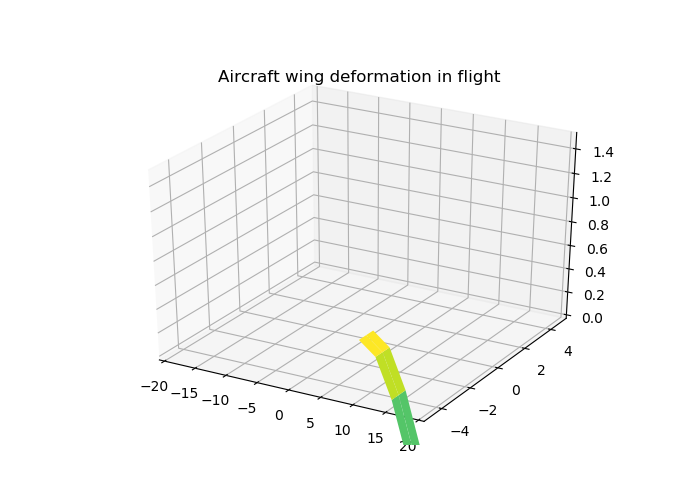
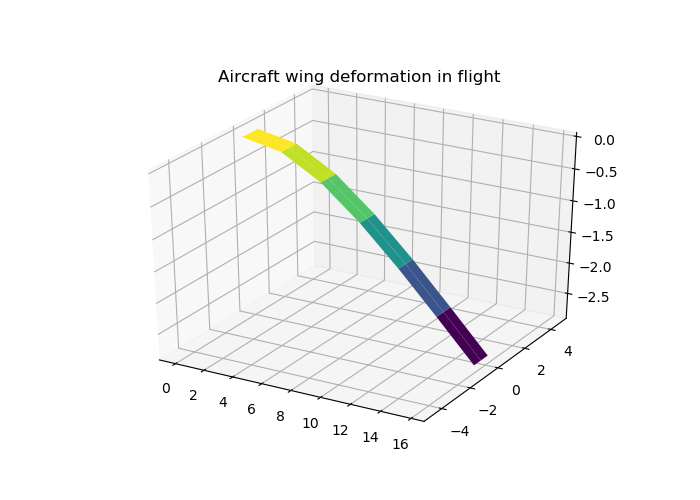
Code working, properly plotting and calculating the flutter speed. Eig val for flutter not yet correct

diff --git a/HAR Wing Aeroelastical Tool/Airplane.py b/HAR Wing Aeroelastical Tool/Airplane.py
@@ -22,7 +22,7 @@ def veclin(i, numstates):
     return vec
 
 
-def equilibracorpo(vec, strain, strainp, strainpp, lambd, beta, betap, kinetic, ap, V):
+def equilibracorpo(vec, strain, strainp, strainpp, lambd, beta, betap, kinetic, ap, V, freeDEG):
     theta = vec[0]
     deltaflap = vec[1]
     tracao = vec[2]
@@ -33,23 +33,23 @@ def equilibracorpo(vec, strain, strainp, strainpp, lambd, beta, betap, kinetic, 
 
     FLAG = 0
     Xp, bp, lambdap, kp = dinamicaflex(0, strain, strainp, strainpp, lambd, beta, betap, kinetic, ap, Vento, tracao,
-                                       np.array([deltaflap, 0, 0]), FLAG)
+                                       np.array([deltaflap, 0, 0]), FLAG, freeDEG)
     zero = 10000 * np.array([bp[1], bp[2], bp[3]])
     zero = zero[:, 0]
 
     return zero
 
 
-def equilibraestrutura(strain, strainp, strainpp, lambd, beta, betap, kinetic, ap, V, tracao, deltaflap):
+def equilibraestrutura(strain, strainp, strainpp, lambd, beta, betap, kinetic, ap, V, tracao, deltaflap, freeDEG):
     FLAG = 0
     Xp, bp, lambdap, kp = dinamicaflex(0, strain, strainp, strainpp,
-                                       lambd, beta, betap, kinetic, ap, V, tracao, deltaflap, FLAG)
+                                       lambd, beta, betap, kinetic, ap, V, tracao, deltaflap, FLAG,freeDEG)
     zero = Xp[:, 0]
 
     return zero
 
 
-def equilibratudo(vec, strain, strainp, strainpp, lambd, beta, betap, kinetic, ap, V, tracao, deltaflap):
+def equilibratudo(vec, strain, strainp, strainpp, lambd, beta, betap, kinetic, ap, V, tracao, deltaflap, freeDEG):
     strain = vec[0:strainp.shape[1]]
     theta = vec[strainp.shape[1] + 1]
     deltaflap = vec[strainp.shape[1] + 2]
@@ -61,7 +61,7 @@ def equilibratudo(vec, strain, strainp, strainpp, lambd, beta, betap, kinetic, a
 
     FLAG = 0
     Xp, bp, lambdap = dinamicaflex(0, strain, strainp, strainpp,
-                                   lambd, beta, betap, kinetic, ap, V, tracao, deltaflap, FLAG)
+                                   lambd, beta, betap, kinetic, ap, V, tracao, deltaflap, FLAG, freeDEG)
     zero = np.array([[Xp], [bp[2]], [bp[3]], [bp[4]]])
 
     return zero
@@ -74,6 +74,7 @@ def dinamicaflexODEimplicit(t, x, xp):
     deltaflap = airplaneParams[3]
     T = airplaneParams[4]
     elev = airplaneParams[5]
+    freeDEG = airplaneParams[6]
 
     deltaflap = deltaflap + interp1d(T, elev)(t)
 
@@ -97,7 +98,7 @@ def dinamicaflexODEimplicit(t, x, xp):
     strainppn, bpn, lambdapn, kineticpn = dinamicaflex(t, strain.transpose(), strainp.transpose(),
                                                        strainpp.transpose(), lambd, beta, betap,
                                                        kinetic.transpose(), ap, V, manete, np.array([deltaflap, 0, 0]),
-                                                       FLAG)
+                                                       FLAG, freeDEG)
 
     if ap.NUMaedstates == 0:
         f = np.block([[(-strainpn + strainp)], [(strainppn - strainpp)], [(bpn - betap)], [(kineticpn - kineticp)]])
@@ -279,8 +280,7 @@ class Airplane:
     def airplanemovie(self):  # ah mas vai pass ar ainda por muito tempo
         pass
 
-    def linearize(self, straineq, betaeq, keq, manete, deltaflap, Vwind, T=np.array([0, 1]), elev=np.array([0, 0])):
-        print('linearize')
+    def linearize(self, straineq, betaeq, keq, manete, deltaflap, Vwind, freeDEG, T=np.array([0, 1]), elev=np.array([0, 0])):
         global airplaneParams
         if self.NUMaedstates == 0:
             lambda0 = np.array([])
@@ -290,7 +290,7 @@ class Airplane:
         Airplane.update(self, straineq, straineq * 0, straineq * 0, lambda0)
         Airplane.updateStrJac(self)
 
-        airplaneParams = [self, Vwind, manete, deltaflap, T, elev]
+        airplaneParams = [self, Vwind, manete, deltaflap, T, elev, freeDEG]
 
         if straineq.shape[0] != 1:
             straineq = straineq.reshape(1, straineq.shape[0])
@@ -308,12 +308,12 @@ class Airplane:
             soma = dinamicaflexODEimplicit(0, x + veclin(i, x.shape[0]).transpose() * delta, xp)
             subtr = dinamicaflexODEimplicit(0, x - veclin(i, x.shape[0]).transpose() * delta, xp)
 
-            if (i >= (straineq.shape[1] + 1)) and (i <= (straineq.shape[1] * 2)) or (
-                    (i >= int(self.NUMaedstates) + straineq.shape[1] * 2 + 1) and (
-                    i <= int(self.NUMaedstates) + straineq.shape[1] * 2 + 6)):  # TODO talvez precise alterar esse i
+            if (i >= (straineq.shape[1])) and (i <= (straineq.shape[1] * 2 - 1)) or (
+                    (i >= int(self.NUMaedstates) + straineq.shape[1] * 2) and (
+                    i <= int(self.NUMaedstates) + straineq.shape[1] * 2 + 5)):  # TODO talvez precise alterar esse i
                 somap = dinamicaflexODEimplicit(0, x, xp + veclin(i, x.shape[0]).transpose() * delta)
                 subtrp = dinamicaflexODEimplicit(0, x, xp - veclin(i, x.shape[0]).transpose() * delta)
-                Mlin[:, i] = -((somap - subtrp) / (2 * delta))[:, 0]
+                Mlin[:, i] = (-(somap - subtrp) / (2 * delta))[:, 0]
 
             Alin[:, i] = ((soma - subtr) / (2 * delta))[:, 0]
 
@@ -330,8 +330,7 @@ class Airplane:
 
         return A, Aaero, Abody
 
-    def trimairplane(self, V, H, Vwind, tracao=0, deltaflap=0, isPinned = 'False'):
-        print('trimairplane')
+    def trimairplane(self, V, H, Vwind, tracao=0, deltaflap=0, freeDEG=np.array([[1, 1, 1, 1, 1, 1]]), isPinned='False'):
         strain = np.zeros((self.NUMele * 4, 1)).transpose()
         strainp = np.zeros((self.NUMele * 4, 1)).transpose()
         strainpp = np.zeros((self.NUMele * 4, 1)).transpose()
@@ -347,9 +346,8 @@ class Airplane:
         kinetic = np.array([theta, phi, psi, H])
 
         if isPinned == 'False':
-            print('entering fsolve equilibra corpo')
             vec = fsolve(equilibracorpo, np.array([[0, 0, 0]]),
-                         args=(strain, strainp, strainpp, lambd, beta, betap, kinetic, self, V),
+                         args=(strain, strainp, strainpp, lambd, beta, betap, kinetic, self, V, freeDEG),
                          xtol=1e-10, maxfev=20000)
             theta = vec[0]
             kinetic[0] = theta
@@ -357,10 +355,9 @@ class Airplane:
             tracao = vec[2]
             beta[2] = -V * math.sin(theta)
             beta[1] = V * math.cos(theta)
-            print('entering fsolve equilibra est')
             strainEQ = fsolve(equilibraestrutura, strain,
                               args=(strainp, strainpp, lambd, beta, betap, kinetic, self, Vwind, tracao,
-                                    np.array([deltaflap, 0, 0])),
+                                    np.array([deltaflap, 0, 0]), freeDEG),
                               xtol=1e-10, maxfev=20000)
         else:
             theta = 0
@@ -370,7 +367,7 @@ class Airplane:
             beta[1] = 0 * math.cos(theta)
             strainEQ = fsolve(equilibraestrutura, strain,
                               args=(strainp, strainpp, lambd, beta, betap, kinetic, self, Vwind, tracao,
-                                    np.array([deltaflap, 0, 0])),
+                                    np.array([deltaflap, 0, 0]), freeDEG),
                               xtol=1e-10, maxfev=20000)
 
         Airplane.plotAirplane3D(self)
@@ -380,8 +377,7 @@ class Airplane:
     def trimairplanefull(self):  # TODO necessario? prefiro usar so esse ou o full
         pass
 
-    def simulate(self, tspan, strain0, beta0, kinetic0, Vwind, manete, deltaflap, T, elev):
-        print('simulate')
+    def simulate(self, tspan, strain0, beta0, kinetic0, Vwind, manete, deltaflap, T, elev, freeDEG):
         global airplaneParams
         strain0 = strain0.reshape(strain0.shape[0], 1)
         x0 = np.block(
@@ -394,7 +390,7 @@ class Airplane:
         # t,X = ode15i( @ (t, x, xp) dinamicaflexODEimplicit(t, x, xp, ap, Vwind, manete(t), deltaflap(t)), tspan, x0, xp0, options);
 
         t0 = tspan[0]  # Initial time
-        airplaneParams = [self, Vwind, manete, deltaflap, T, elev]
+        airplaneParams = [self, Vwind, manete, deltaflap, T, elev, freeDEG]
 
         model = Implicit_Problem(dinamicaflexODEimplicit, t0=t0, y0=x0, yd0=xp0,
                                  name='Flight simulation')  # Create an Assimulo problem

diff --git a/HAR Wing Aeroelastical Tool/AeroParamsUnsteady.py b/HAR Wing Aeroelastical Tool/AeroParamsUnsteady.py
@@ -34,6 +34,10 @@ class AeroParamsUnsteady:
         self.E3 = np.linalg.inv(self.A) @ self.B1[:, 1]
         self.E4 = np.linalg.inv(self.A) @ self.B2[:, 1]
 
+        self.E2 = self.E2.reshape(self.E2.shape[0], 1)
+        self.E3 = self.E3.reshape(self.E3.shape[0], 1)
+        self.E4 = self.E4.reshape(self.E4.shape[0], 1)
+
     # ------------- # ------------- METHODS ------------- # ------------- #
     # TODO criar setmembermatrix em members, esta em Peter.m necessario?
     def calcMatrix(self):  # eq 2.63
@@ -60,18 +64,18 @@ class AeroParamsUnsteady:
         c2 = np.zeros((self.N, 1))
 
         for i1 in range(0, self.N):
-            c2[i1] = 2. / (i1+1)
+            c2[i1, 0] = 2. / (i1 + 1)
 
         s2 = np.zeros((self.m, 1))
-        s3 = s2
+        s3 = s2.copy()
 
         for i1 in range(0, self.m):
-            if i1 == 0:  # TODO isso faz sentido?
-                s2[i1] = 1
+            if i1 == 0:
+                s2[i1, 0] = 1
             elif i1 == 1:
-                s2[i1] = 1. / 2
+                s2[i1, 0] = 1 / 2
 
-            s3[i1] = i1
+            s3[i1, 0] = i1
 
         self.B1 = c2 @ s2.transpose() @ self.T
         self.B2 = c2 @ s3.transpose() @ self.T
@@ -86,23 +90,22 @@ class AeroParamsUnsteady:
         for i1 in range(0, self.N):
             for i2 in range(0, self.N):
                 if i1 == i2 + 1:
-                    D[i1, i2] = 1 / (2 * (i1+1))
+                    D[i1, i2] = 1 / (2 * (i1 + 1))
                 elif i1 == i2 - 1:
-                    D[i1, i2] = -1 / (2 * (i1+1))
+                    D[i1, i2] = -1 / (2 * (i1 + 1))
 
-            if i1 != self.N-1:
-                b[i1] = ((-1) ** i1) * (math.factorial(self.N + i1) / math.factorial(self.N - 2 - i1)) * (
-                        1 / math.factorial(i1+1) ** 2)
+            if i1 != self.N - 1:
+                b[i1, 0] = ((-1) ** i1) * (math.factorial(self.N + i1) / math.factorial(self.N - 2 - i1)) * (
+                        1 / math.factorial(i1 + 1) ** 2)
 
-            if i1 == self.N-1:  # TODO else?
-                b[i1] = (-1) ** (self.N + 1)
+            if i1 == self.N - 1:  # TODO else?
+                b[i1, 0] = (-1) ** (self.N + 1)
 
-            c[i1] = 2 / (i1 + 1)
+            c[i1, 0] = 2 / (i1 + 1)
 
             if i1 == 0:  # TODO faz sentido? necessario?
-                d[i1] = 1. / 2
+                d[i1, 0] = 1. / 2
 
         self.B = b
         self.Bm = 1 / 2 * self.C @ np.block([[1], [np.zeros((self.m - 1, 1))]]) @ b.transpose()  # TODO esta certo?
         self.A = D + d @ b.transpose() + c @ d.transpose() + (1 / 2) * c @ b.transpose()
-

diff --git a/HAR Wing Aeroelastical Tool/aeroforceandmoment.py b/HAR Wing Aeroelastical Tool/aeroforceandmoment.py
@@ -23,6 +23,10 @@ def aeroforceandmoment(strain, strainp, strainpp, lambd, beta, betap, membro, Vw
         # Node 1
         N = membro.elementsVector[i].node1.aeroParams.N
         lambd4 = lambd[0, (i * N * 3):(N + i * N * 3)]
+
+        if lambd4.shape[0] != 1:
+            lambd4 = lambd4.reshape(1, lambd4.shape[0])
+
         lambda0 = 0.5 * lambd4 @ membro.elementsVector[i].node1.aeroParams.B
         b = membro.elementsVector[i].node1.aeroParams.b
         d = membro.elementsVector[i].node1.aeroParams.a * b
@@ -80,9 +84,14 @@ def aeroforceandmoment(strain, strainp, strainpp, lambd, beta, betap, membro, Vw
 
 
 def getforceandmoment(h, dotp, dottheta, ddotp, ddottheta, lambda0, Vwind, b, rho, d, aero, lambd, deltaflap):
-    e1 = np.array([1, 0, 0]).transpose()
-    e2 = np.array([0, 1, 0]).transpose()
-    e3 = np.array([0, 0, 1]).transpose()
+    e1 = np.array([[1, 0, 0]]).transpose()
+    e2 = np.array([[0, 1, 0]]).transpose()
+    e3 = np.array([[0, 0, 1]]).transpose()
+
+    dotp = dotp.reshape(dotp.shape[0], 1)
+    dottheta = dottheta.reshape(dottheta.shape[0], 1)
+    ddotp = ddotp.reshape(ddotp.shape[0], 1)
+    ddottheta = ddottheta.reshape(ddottheta.shape[0], 1)
 
     if aero.ndelta > 0:
         delta = deltaflap[aero.ndelta - 1]  # TODO verificar o -1
@@ -122,9 +131,12 @@ def getforceandmoment(h, dotp, dottheta, ddotp, ddottheta, lambda0, Vwind, b, rh
 
     Forca = CBA @ np.array([[0], [D], [L]])
     Mx = M + (d + 0.5 * b) * (L * cos(alphat + alpha0) - D * sin(alphat + alpha0))
-    Momento = CBA @ np.array([[Mx], [0], [0]])
+    Momento = CBA @ np.array([Mx, [0], [0]])
 
     Vwind = doty
+    if lambd.shape[0] != 1:
+        lambd = lambd.reshape(1, lambd.shape[0])
+
     # TODO checar se tem mais @
     flambda = aero.E1 @ lambd.transpose() * np.linalg.norm(Vwind) / b + aero.E2 * (
                 -ddotz[0] / b) + aero.E3 * ddotalpha[0] + aero.E4 * dotalpha[0] * np.linalg.norm(Vwind) / b

diff --git a/HAR Wing Aeroelastical Tool/flutter_speed.py b/HAR Wing Aeroelastical Tool/flutter_speed.py
@@ -2,7 +2,7 @@ import numpy as np
 from numpy.linalg import eig
 
 
-def flutter_speed(Vwind_initial, Vwind_final, tol, ap, strain_eq, altitude, T=np.array([0, 1]), elev=np.array([0, 0])):
+def flutter_speed(Vwind_initial, Vwind_final, tol, ap, strain_eq, altitude, freeDEG, T=np.array([0, 1]), elev=np.array([0, 0])):
     throttle = 0
     deltaflap = 0
     betaeq = np.zeros((6, 1))
@@ -12,7 +12,7 @@ def flutter_speed(Vwind_initial, Vwind_final, tol, ap, strain_eq, altitude, T=np
     unstable_eig_value = None
     unstable_eig_vec = None
 
-    dummy, Aaeroelast, dummy = ap.linearize(strain_eq, betaeq, keq, throttle, deltaflap, Vwind_initial, T, elev)
+    _, Aaeroelast, _ = ap.linearize(strain_eq, betaeq, keq, throttle, deltaflap, Vwind_initial, freeDEG, T, elev)
 
     eig_val_initial, eig_vec_initial = eig(Aaeroelast)
 
@@ -22,7 +22,7 @@ def flutter_speed(Vwind_initial, Vwind_final, tol, ap, strain_eq, altitude, T=np
     if np.max(eig_val_initial.real) > 0:
         print('Initial speed is already unstable! \n Cant find instability speed in this interval ')
     else:
-        dummy, Aaeroelast, dummy = ap.linearize(strain_eq, betaeq, keq, throttle, deltaflap, Vwind_final, T, elev)
+        _, Aaeroelast, _= ap.linearize(strain_eq, betaeq, keq, throttle, deltaflap, Vwind_final, freeDEG, T, elev)
 
         eig_val_final, eig_vec_final = eig(Aaeroelast)
 
@@ -33,7 +33,7 @@ def flutter_speed(Vwind_initial, Vwind_final, tol, ap, strain_eq, altitude, T=np
             Vnew = (Vwind_final + Vwind_initial) / 2
 
             while diff > tol:
-                dummy, Aaeroelast, dummy = ap.linearize(strain_eq, betaeq, keq, throttle, deltaflap, Vnew)
+                dummy, Aaeroelast, dummy = ap.linearize(strain_eq, betaeq, keq, throttle, deltaflap, Vnew, freeDEG, T, elev)
 
                 eig_val, eig_vec = eig(Aaeroelast)
                 eig_val = np.diag(eig_val)

diff --git a/HAR Wing Aeroelastical Tool/dinamicaflex.py b/HAR Wing Aeroelastical Tool/dinamicaflex.py
@@ -8,7 +8,7 @@ from getJhbp import getJhpb
 from aeroforceandmoment import aeroforceandmoment
 
 
-def dinamicaflex(t, strain, strainp, strainpp, lambd, beta, betap, kinetic, ap, V, manete, deltaflap, FLAG):
+def dinamicaflex(t, strain, strainp, strainpp, lambd, beta, betap, kinetic, ap, V, manete, deltaflap, FLAG, freeDEG=np.array([[1, 1, 1, 1, 1, 1]])):
     kinetic = kinetic.reshape(4)
 
     H = kinetic[3]
@@ -100,17 +100,16 @@ def dinamicaflex(t, strain, strainp, strainpp, lambd, beta, betap, kinetic, ap, 
             xp = np.linalg.solve(MFF, (
                     -MFB @ betap - CFB @ beta - CFF @ strainp.transpose() - KFF @ strain.transpose() + RAEROF))
             bp = np.linalg.solve(MBB, (
-                    -MBF @ strainpp.transpose() - CBF @ strainp.transpose() - CBB @ beta + RAEROB) * np.array(
-                [[1, 1, 1, 1, 1, 1]]).transpose())
+                    -MBF @ strainpp.transpose() - CBF @ strainp.transpose() - CBB @ beta + RAEROB) * freeDEG.transpose())
         else:
             xpbp = np.linalg.solve(np.block([[MFF, MFB], [MBF, MBB]]), (
                     np.block([-CFF, -CFB], [-CBF, -CBB]) @ np.block([[strainp.transpose()], [beta]]) - np.block(
                 [[KFF @ strain.transpose()], [np.zeros((6, 1))]]) + np.block([[RAEROF], [RAEROB]])))
             xp = xpbp[0:ap.NUMele * 4]
-            bp = xpbp[(ap.NUMele * 4):(ap.NUMele * 4 + 6)] * np.array([[1, 1, 1, 1, 1, 1]]).transpose()
+            bp = xpbp[(ap.NUMele * 4):(ap.NUMele * 4 + 6)] * freeDEG.transpose()
     else:
         xp = - KFF @ strain.transpose() + RAEROF
-        bp = + RAEROB * np.array([[1, 1, 1, 1, 1, 1]]).transpose()
+        bp = + RAEROB * freeDEG.transpose()
 
     lambdap = FLAMBDA
 

diff --git a/HAR Wing Aeroelastical Tool/main.py b/HAR Wing Aeroelastical Tool/main.py
@@ -179,15 +179,16 @@ if __name__ == '__main__':
     Vwind = 10
 
     isPinned = 'True'
+    freeDEG = np.array([[0, 0, 0, 0, 0, 0]])
 
-    rb_eq, strain_eq = ap.trimairplane(V, altitude, Vwind, throttle, deltaflap,isPinned)
+    rb_eq, strain_eq = ap.trimairplane(V, altitude, Vwind, throttle, deltaflap,freeDEG, isPinned)
 
     theta = rb_eq[0]
     deltaflap = rb_eq[1]
     engine_position = rb_eq[2]
 
     # flutter speed - undeformed(Linear)
-    flut_speed, flut_eig_val, flut_eig_vec = flutter_speed(20, 35, 0.01, ap, strain_eq * 0, altitude)
+    flut_speed, flut_eig_val, flut_eig_vec = flutter_speed(20, 35, 0.01, ap, strain_eq * 0, altitude, freeDEG)
 
     print('flutter speed:')
     print(flut_speed)
@@ -195,7 +196,7 @@ if __name__ == '__main__':
     print(flut_eig_val)
 
     # flutter speed - deformed(Nonlinear)
-    flut_speed, flut_eig_val, flut_eig_vec = flutter_speed(20, 35, 0.01, ap, strain_eq, altitude)
+    flut_speed, flut_eig_val, flut_eig_vec = flutter_speed(20, 35, 0.01, ap, strain_eq, altitude, freeDEG)
 
     print('flutter speed:')
     print(flut_speed)
@@ -215,7 +216,7 @@ if __name__ == '__main__':
     # Vwind = 0
     #
     # tNL, strainNL, straindNL, lambdaNL, betaNL, kineticNL = ap.simulate(np.array([0, tSim]), strain0, beta0, k0, Vwind,
-    #                                                                     engine_position, deltaflap, T, elev)
+    #                                                                     engine_position, deltaflap, T, elev, freeDEG)
     #
     # dt = 0.1
     # ts, Xs = changedatarate(tNL, strainNL, dt)

diff --git a/HAR Wing Aeroelastical Tool/plotaest3d.py b/HAR Wing Aeroelastical Tool/plotaest3d.py
@@ -50,9 +50,9 @@ def plotaest3d(member, translate, ax, option = 'surface'):
 
         ax.set_title('Aircraft wing deformation in flight')
 
-        ax.set_xlim3d(-20, 20)
+        # ax.set_xlim3d(-20, 20)
         ax.set_ylim3d(-5, 5)
-        ax.set_zlim3d(0, 1.5)
+        # ax.set_zlim3d(0, 1.5)
 
         if option == 'surface':
             surf = ax.plot_surface(X, Y, Z, rstride=1, cstride=1, cmap='viridis')
